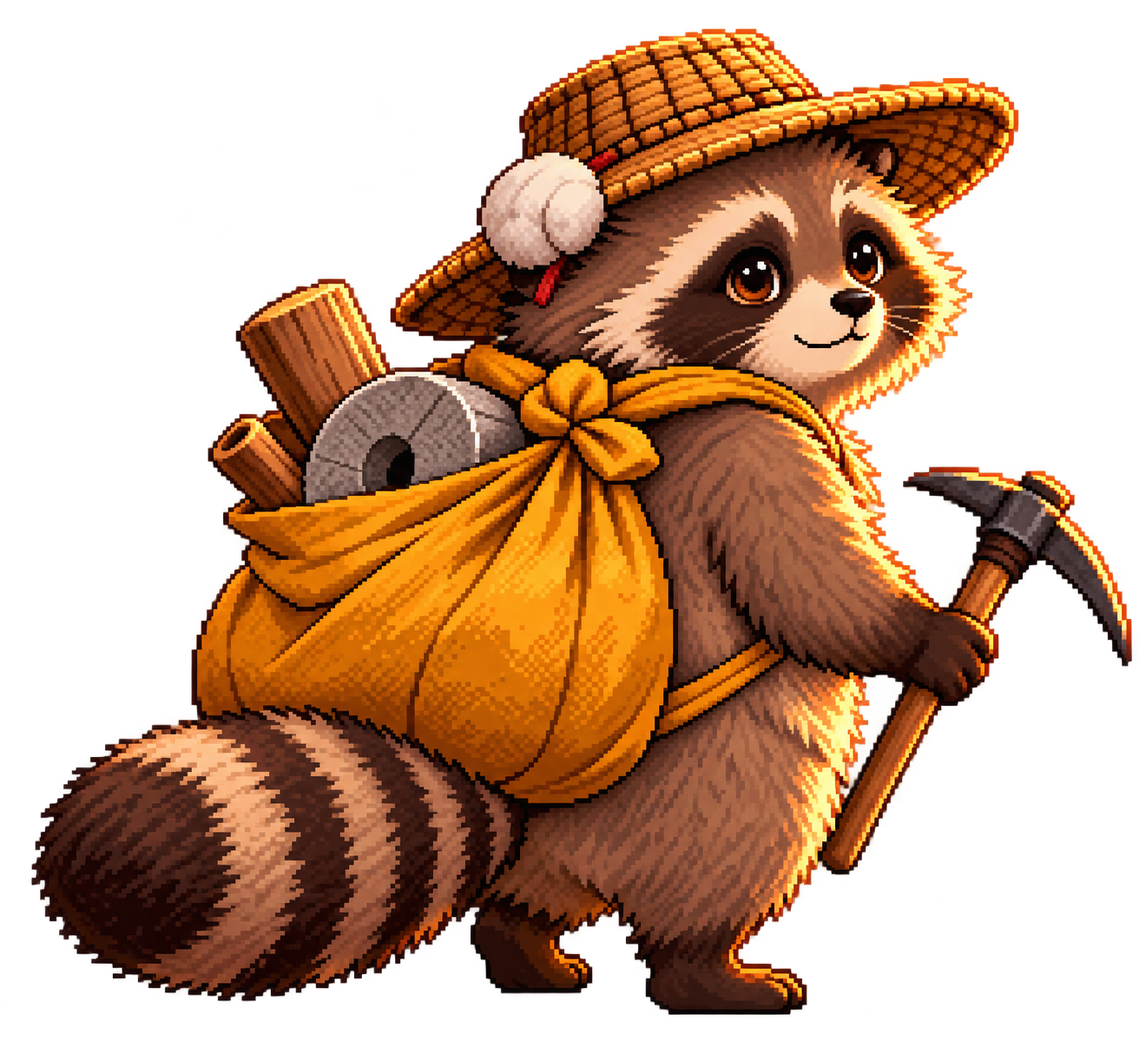
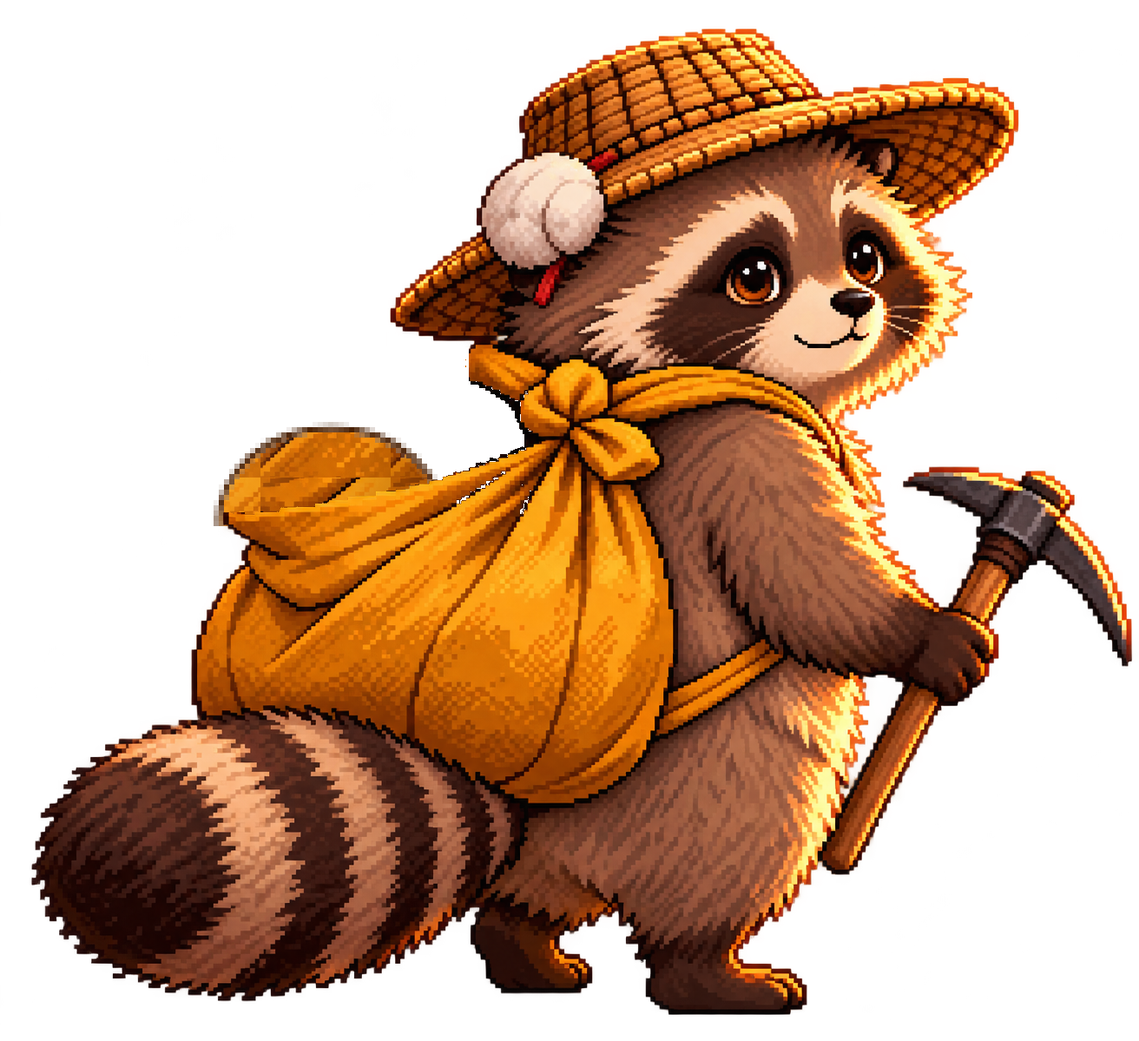
PA-130 화면 손질: 타이틀 짐 덜 보이게·'보통'→'잔일'·가공 빠르게·획득 그림 낮고 짧게·지도 만난 이 쪽지·도장 창 전체 보이기
- D-205 타이틀 그림 보따리에서 통나무·맷돌을 지우고 보자기 윗자락만 살짝 부풀림 (피드백 35)
- D-200 할 일 아래 칸 이름 '보통' → '잔일' (HUD·휴대폰·수첩) (피드백 36)
- D-201 가공 한 동작 1100ms → 750ms (피드백 44)
- D-202 얻은 물건 그림: 머리 위 28px에서 약 10px만 떠 0.5초에 사라짐 (피드백 51)
- D-203 지도 칸에는 만난 이를 점으로만, 이름은 마우스 올림·고른 칸 쪽지로 (피드백 53)
- D-204 도장 찾은 창이 손바닥 자국 전체를 늘 담게 (높이 찍힌 깃대 도장 잘림 고침) (피드백 56)
- ?v=20261101h5

Changed region(s): [[0.1875, 0.2469, 0.4688, 0.5246]]

diff --git a/prototypes/web/index.html b/prototypes/web/index.html
@@ -9,7 +9,7 @@
 <link rel="preconnect" href="https://fonts.googleapis.com">
 <link rel="preconnect" href="https://fonts.gstatic.com" crossorigin>
 <link rel="stylesheet" href="https://fonts.googleapis.com/css2?family=Gowun+Batang:wght@400;700&family=Gowun+Dodum&display=swap">
-<link rel="stylesheet" href="css/style.css?v=20261101g8">
+<link rel="stylesheet" href="css/style.css?v=20261101h5">
 </head>
 <body>
 
@@ -174,65 +174,65 @@
 
 <!-- 새 버전을 올릴 때마다 아래 ?v= 값을 모두 같은 새 값으로 바꾼다 (브라우저가 옛 파일을 쓰지 않게). README 참고 -->
 <!-- 빌드 없이 차례대로 읽는다. 순서: 공통 엔진 → 공통 데이터 → 지역 → 시작(game.js) -->
-<script src="js/engine/core.js?v=20261101g8"></script>
-<script src="js/engine/input.js?v=20261101g8"></script>
-<script src="js/data/music-data.js?v=20261101g8"></script>
-<script src="js/data/new-music.js?v=20261101g8"></script>
-<script src="js/engine/sound.js?v=20261101g8"></script>
-<script src="js/engine/music.js?v=20261101g8"></script>
-<script src="js/engine/vfx.js?v=20261101g8"></script>
-<script src="js/engine/dialog.js?v=20261101g8"></script>
-<script src="js/engine/gather.js?v=20261101g8"></script>
-<script src="js/engine/icons.js?v=20261101g8"></script>
-<script src="js/engine/field.js?v=20261101g8"></script>
-<script src="js/engine/map.js?v=20261101g8"></script>
-<script src="js/engine/hud.js?v=20261101g8"></script>
-<script src="js/engine/forms.js?v=20261101g8"></script>
-<script src="js/engine/roll.js?v=20261101g8"></script>
-<script src="js/engine/bag.js?v=20261101g8"></script>
-<script src="js/engine/craft.js?v=20261101g8"></script>
-<script src="js/engine/trade.js?v=20261101g8"></script>
-<script src="js/engine/book.js?v=20261101g8"></script>
-<script src="js/engine/notebook.js?v=20261101g8"></script>
-<script src="js/engine/battle-ink.js?v=20261101g8"></script>
-<script src="js/engine/battle.js?v=20261101g8"></script>
-<script src="js/engine/battle-attacks.js?v=20261101g8"></script>
+<script src="js/engine/core.js?v=20261101h5"></script>
+<script src="js/engine/input.js?v=20261101h5"></script>
+<script src="js/data/music-data.js?v=20261101h5"></script>
+<script src="js/data/new-music.js?v=20261101h5"></script>
+<script src="js/engine/sound.js?v=20261101h5"></script>
+<script src="js/engine/music.js?v=20261101h5"></script>
+<script src="js/engine/vfx.js?v=20261101h5"></script>
+<script src="js/engine/dialog.js?v=20261101h5"></script>
+<script src="js/engine/gather.js?v=20261101h5"></script>
+<script src="js/engine/icons.js?v=20261101h5"></script>
+<script src="js/engine/field.js?v=20261101h5"></script>
+<script src="js/engine/map.js?v=20261101h5"></script>
+<script src="js/engine/hud.js?v=20261101h5"></script>
+<script src="js/engine/forms.js?v=20261101h5"></script>
+<script src="js/engine/roll.js?v=20261101h5"></script>
+<script src="js/engine/bag.js?v=20261101h5"></script>
+<script src="js/engine/craft.js?v=20261101h5"></script>
+<script src="js/engine/trade.js?v=20261101h5"></script>
+<script src="js/engine/book.js?v=20261101h5"></script>
+<script src="js/engine/notebook.js?v=20261101h5"></script>
+<script src="js/engine/battle-ink.js?v=20261101h5"></script>
+<script src="js/engine/battle.js?v=20261101h5"></script>
+<script src="js/engine/battle-attacks.js?v=20261101h5"></script>
 <!-- 표(design/data/*.csv)에서 만든 데이터. 직접 고치지 말고 tools/build-data.js 로 다시 만든다 -->
-<script src="js/data/tables.js?v=20261101g8"></script>
-<script src="js/data/common.js?v=20261101g8"></script>
+<script src="js/data/tables.js?v=20261101h5"></script>
+<script src="js/data/common.js?v=20261101h5"></script>
 <!-- 지역 1: 단풍골. 지역을 더할 때는 그 지역 폴더의 파일을 이 아래에 같은 모양으로 덧붙인다 -->
-<script src="js/regions/galchamgol/region.js?v=20261101g8"></script>
-<script src="js/regions/galchamgol/art.js?v=20261101g8"></script>
-<script src="js/regions/galchamgol/field.js?v=20261101g8"></script>
-<script src="js/regions/galchamgol/enemies.js?v=20261101g8"></script>
-<script src="js/regions/galchamgol/story.js?v=20261101g8"></script>
-<script src="js/regions/galchamgol/strangers.js?v=20261101g8"></script>
+<script src="js/regions/galchamgol/region.js?v=20261101h5"></script>
+<script src="js/regions/galchamgol/art.js?v=20261101h5"></script>
+<script src="js/regions/galchamgol/field.js?v=20261101h5"></script>
+<script src="js/regions/galchamgol/enemies.js?v=20261101h5"></script>
+<script src="js/regions/galchamgol/story.js?v=20261101h5"></script>
+<script src="js/regions/galchamgol/strangers.js?v=20261101h5"></script>
 <!-- 지역 2: 돌너머 마을 -->
-<script src="js/regions/dolneomeo/region.js?v=20261101g8"></script>
-<script src="js/regions/dolneomeo/art.js?v=20261101g8"></script>
-<script src="js/regions/dolneomeo/field.js?v=20261101g8"></script>
-<script src="js/regions/dolneomeo/enemies.js?v=20261101g8"></script>
-<script src="js/regions/dolneomeo/story.js?v=20261101g8"></script>
-<script src="js/regions/dolneomeo/strangers.js?v=20261101g8"></script>
+<script src="js/regions/dolneomeo/region.js?v=20261101h5"></script>
+<script src="js/regions/dolneomeo/art.js?v=20261101h5"></script>
+<script src="js/regions/dolneomeo/field.js?v=20261101h5"></script>
+<script src="js/regions/dolneomeo/enemies.js?v=20261101h5"></script>
+<script src="js/regions/dolneomeo/story.js?v=20261101h5"></script>
+<script src="js/regions/dolneomeo/strangers.js?v=20261101h5"></script>
 <!-- 지역 3: 큰 장터 -->
-<script src="js/regions/jangteo/region.js?v=20261101g8"></script>
-<script src="js/regions/jangteo/art.js?v=20261101g8"></script>
-<script src="js/regions/jangteo/field.js?v=20261101g8"></script>
-<script src="js/regions/jangteo/enemies.js?v=20261101g8"></script>
-<script src="js/regions/jangteo/story.js?v=20261101g8"></script>
-<script src="js/regions/jangteo/strangers.js?v=20261101g8"></script>
+<script src="js/regions/jangteo/region.js?v=20261101h5"></script>
+<script src="js/regions/jangteo/art.js?v=20261101h5"></script>
+<script src="js/regions/jangteo/field.js?v=20261101h5"></script>
+<script src="js/regions/jangteo/enemies.js?v=20261101h5"></script>
+<script src="js/regions/jangteo/story.js?v=20261101h5"></script>
+<script src="js/regions/jangteo/strangers.js?v=20261101h5"></script>
 <!-- 지역 4: 북쪽 영산 (마지막) -->
-<script src="js/regions/yeongsan/region.js?v=20261101g8"></script>
-<script src="js/regions/yeongsan/art.js?v=20261101g8"></script>
-<script src="js/regions/yeongsan/field.js?v=20261101g8"></script>
-<script src="js/regions/yeongsan/enemies.js?v=20261101g8"></script>
-<script src="js/regions/yeongsan/story.js?v=20261101g8"></script>
-<script src="js/regions/yeongsan/strangers.js?v=20261101g8"></script>
-<script src="js/engine/save.js?v=20261101g8"></script>
+<script src="js/regions/yeongsan/region.js?v=20261101h5"></script>
+<script src="js/regions/yeongsan/art.js?v=20261101h5"></script>
+<script src="js/regions/yeongsan/field.js?v=20261101h5"></script>
+<script src="js/regions/yeongsan/enemies.js?v=20261101h5"></script>
+<script src="js/regions/yeongsan/story.js?v=20261101h5"></script>
+<script src="js/regions/yeongsan/strangers.js?v=20261101h5"></script>
+<script src="js/engine/save.js?v=20261101h5"></script>
 <!-- 첫 화면 (packoon-layer-studio 타이틀 장면) -->
-<script src="js/title/scene-data.js?v=20261101g8"></script>
-<script src="js/title/title-scene.js?v=20261101g8"></script>
-<script src="js/title/title-screen.js?v=20261101g8"></script>
-<script src="js/engine/game.js?v=20261101g8"></script>
+<script src="js/title/scene-data.js?v=20261101h5"></script>
+<script src="js/title/title-scene.js?v=20261101h5"></script>
+<script src="js/title/title-screen.js?v=20261101h5"></script>
+<script src="js/engine/game.js?v=20261101h5"></script>
 </body>
 </html>

diff --git a/prototypes/web/js/title/scene-data.js b/prototypes/web/js/title/scene-data.js
@@ -1,6 +1,7 @@
 'use strict';
 /* 타이틀 장면 데이터. packoon-layer-studio 의 scene-defaults.json · layer-manifest.json 을 그대로 옮긴 것이다 (같은 폴더의 assets/title/*.json).
    더블클릭(file://)으로도 열리게 JSON 을 실행 중에 읽지 않고 여기에 담는다. 값을 바꿀 때는 JSON 을 고치고 이 파일도 같은 값으로 맞춘다 */
-const TITLE_ASSETS={"sky":"assets/title/sky.png","clouds":"assets/title/clouds.png","hills":"assets/title/hills.png","sacred-tree":"assets/title/sacred-tree.png","village":"assets/title/village.png","magpie":"assets/title/magpie.png","ground":"assets/title/ground.png","fog":"assets/title/fog.png","character":"assets/title/character.png","foreground":"assets/title/foreground.png","leaf":"assets/title/leaf.png","logo":"assets/title/logo.png"};
+// 결정 D-205: character.png 의 보따리에서 삐져나온 통나무·맷돌을 지우고 보자기 윗자락만 살짝 부풀렸다 (사용자 피드백 35)
+const TITLE_ASSETS={"sky":"assets/title/sky.png","clouds":"assets/title/clouds.png","hills":"assets/title/hills.png","sacred-tree":"assets/title/sacred-tree.png","village":"assets/title/village.png","magpie":"assets/title/magpie.png","ground":"assets/title/ground.png","fog":"assets/title/fog.png","character":"assets/title/character.png?d205","foreground":"assets/title/foreground.png","leaf":"assets/title/leaf.png","logo":"assets/title/logo.png"};
 const TITLE_META={"sky":{"width":1672,"height":941,"bounds":[0,0,1672,941],"alpha":[255,255],"source":"Image gen, independently regenerated"},"clouds":{"width":2172,"height":724,"bounds":[41,197,2089,325],"alpha":[0,255],"source":"Image gen, independently regenerated"},"hills":{"width":1672,"height":941,"bounds":[0,307,1672,634],"alpha":[0,255],"source":"Image gen, independently regenerated"},"sacred-tree":{"width":1152,"height":1366,"bounds":[2,0,1150,1366],"alpha":[0,255],"source":"Image gen, independently regenerated"},"village":{"width":1254,"height":1254,"bounds":[9,89,1231,1112],"alpha":[0,255],"source":"Image gen, independently regenerated"},"ground":{"width":1672,"height":941,"bounds":[0,572,1672,369],"alpha":[0,255],"source":"Image gen, independently regenerated"},"fog":{"width":2172,"height":724,"bounds":[55,290,2067,234],"alpha":[0,255],"source":"Image gen, independently regenerated"},"character":{"width":1312,"height":1199,"bounds":[36,33,1268,1136],"alpha":[0,255],"source":"Image gen, independently regenerated"},"foreground":{"width":1672,"height":941,"bounds":[0,0,1672,941],"alpha":[0,255],"source":"Image gen, independently regenerated"},"leaf":{"width":1295,"height":1214,"bounds":[289,175,861,901],"alpha":[0,255],"source":"Image gen, independently regenerated"},"logo":{"width":2135,"height":736,"bounds":[78,158,1964,433],"alpha":[0,255],"source":"Image gen, independently regenerated"},"magpie":{"width":1536,"height":1024,"bounds":[71,46,1425,894],"alpha":[0,254],"source":"Image gen, independently regenerated"}};
 const TITLE_DEFAULTS={"version":1,"presetId":"packoon-approved-2026-10-29-02","config":{"parallax":15,"floatAmp":12,"floatPeriod":6,"cloudSpeed":8,"fogSpeed":43,"leafCount":28,"leafSpeed":1,"wind":18},"selected":"logo","isolate":false,"playing":false,"layers":[{"id":"sky","blur":0,"depth":0.04,"opacity":1,"visible":true},{"id":"clouds","blur":0,"depth":0.12,"opacity":0.7,"visible":true},{"id":"hills","blur":1,"depth":0.22,"opacity":1,"visible":true},{"id":"sacred-tree","blur":1,"depth":0.42,"opacity":1,"visible":true},{"id":"village","blur":1.5,"depth":0.65,"opacity":1,"visible":true},{"id":"magpie","blur":0,"depth":0.4,"opacity":1,"visible":false},{"id":"ground","blur":0,"depth":0.2,"opacity":1,"visible":true},{"id":"fog","blur":2,"depth":0.7,"opacity":0.24,"visible":true},{"id":"character","blur":0,"depth":0.25,"opacity":1,"visible":true},{"id":"foreground","blur":1.5,"depth":1.8,"opacity":1,"visible":true},{"id":"leaf","blur":0,"depth":1.4,"opacity":0.95,"visible":true},{"id":"logo","blur":0,"depth":0.3,"opacity":1,"visible":true}]};

diff --git a/prototypes/web/js/engine/map.js b/prototypes/web/js/engine/map.js
@@ -134,12 +134,17 @@ function renderMap(){
       b.style.left=p.x+'%';b.style.top=p.y+'%';b.disabled=!known;
       if(!known){b.title='아직 가 보지 않은 곳';b.setAttribute('aria-label','아직 가 보지 않은 곳');}
       else{const v=seen[id],line=mapSeenText(v);
-        if(v.who.length)b.appendChild(el('span','map-seen-who',v.who.join('·')));
+        // 결정 D-203: 만난 이 이름은 칸에 바로 쓰지 않고 작은 점으로만 둔다. 마우스를 올리거나(터치는 눌러 고르면) 이름 쪽지가 뜬다 (사용자 피드백 53)
+        if(v.who.length){const row=el('span','map-seen-who');row.setAttribute('aria-hidden','true');
+          for(let i=0;i<Math.min(v.who.length,MAP_WHO_DOTS);i++)row.appendChild(el('i','map-who-dot'));
+          if(v.who.length>MAP_WHO_DOTS)row.appendChild(el('b',null,'+'+(v.who.length-MAP_WHO_DOTS)));
+          b.appendChild(row);b.dataset.who=v.who.join(' · ');}
         if(v.items.length){const row=el('span','map-seen-items');
           for(const it of v.items.slice(0,3)){const ic=icon(it.id);if(it.spent)ic.classList.add('spent');ic.setAttribute('aria-hidden','true');row.appendChild(ic);}
           if(v.items.length>3)row.appendChild(el('b',null,'+'+(v.items.length-3)));
           b.appendChild(row);}
-        if(line){b.title=TABLES.ZONES[r.id][id]+' · '+line;b.setAttribute('aria-label',b.title);}}
+        if(line)b.setAttribute('aria-label',TABLES.ZONES[r.id][id]+' · '+line);
+        b.onpointerenter=e=>{if(e.pointerType==='mouse')showMapTip(b);};b.onpointerleave=e=>{if(e.pointerType==='mouse')showMapTip(mapSelectedButton());};}
       if(current)b.setAttribute('aria-current','location');
       const selected=mapSelection?.region===r.id&&mapSelection?.zone===id;b.setAttribute('aria-pressed',String(selected));b.tabIndex=selected?0:-1;
       b.onclick=()=>selectMapPlace(b);
@@ -147,13 +152,31 @@ function renderMap(){
     }
     section.append(heading,chart);body.appendChild(section);
   }
-  updateMapSelection();
+  updateMapSelection();body.onscroll=()=>showMapTip(mapTipButton);
+}
+/* 만난 이 쪽지: 지도 칸 위에 뜨는 작은 이름표. 지도 몸통이 굴러도 잘리지 않게 지도 창에 따로 둔다 */
+const MAP_WHO_DOTS=5;
+function mapSelectedButton(){return $('mapBody')?.querySelector('.map-place[aria-pressed="true"]')||null;}
+let mapTipButton=null;
+function showMapTip(button){
+  if(button&&!button.isConnected)button=mapSelectedButton();   // 지도를 다시 그린 뒤의 옛 칸
+  mapTipButton=button;let tip=$('mapTip');
+  if(!tip){tip=el('div','map-tip');tip.id='mapTip';tip.setAttribute('aria-hidden','true');$('map').appendChild(tip);}
+  const who=button&&!button.disabled&&open('map')?button.dataset.who:'';
+  tip.hidden=!who;if(!who)return;
+  tip.textContent='만난 이 · '+who;tip.style.left='0px';   // 너비를 잴 때 오른쪽 끝에 눌려 접히지 않게
+  const box=$('map').getBoundingClientRect(),r=button.getBoundingClientRect(),above=r.top-box.top>48;
+  const view=$('mapBody').getBoundingClientRect();if(r.bottom<view.top||r.top>view.bottom){tip.hidden=true;return;}   // 굴러서 안 보이는 칸
+  tip.classList.toggle('below',!above);
+  const half=tip.offsetWidth/2,center=clamp(r.left+r.width/2-box.left,half+6,box.width-half-6);   // 지도 창 밖으로 나가지 않게
+  tip.style.left=Math.round(center)+'px';
+  tip.style.top=Math.round((above?r.top:r.bottom)-box.top)+'px';
 }
 function selectMapPlace(button,focus=true){
   if(button.disabled)return;
   mapSelection={region:button.dataset.region,zone:button.dataset.zone};
   for(const b of $('mapBody').querySelectorAll('button')){const selected=b===button;b.setAttribute('aria-pressed',String(selected));b.tabIndex=selected?0:-1;}
-  updateMapSelection();if(focus)button.focus();
+  updateMapSelection();if(focus)button.focus();showMapTip(button);
 }
 function updateMapSelection(){
   const s=mapSelection;$('mapDestination').textContent=s?TABLES.ZONES[s.region]?.[s.zone]||'어딘가':'';

diff --git a/prototypes/web/js/engine/hud.js b/prototypes/web/js/engine/hud.js
@@ -1,13 +1,14 @@
 'use strict';
-/* HUD: 체력, 손에 든 연장, 지금 할 일 (REG.goal() 이 중요한 일, 사연 심부름(SIDE_QUESTS)이 보통 일을 준다) */
-/* 결정 D-149: 할 일은 '중요'(이 지역 본 줄거리)와 '보통'(인물 사연에서 맡은 심부름)으로 나눠 함께 보인다.
+/* HUD: 체력, 손에 든 연장, 지금 할 일 (REG.goal() 이 중요한 일, 사연 심부름(SIDE_QUESTS)이 잔일을 준다) */
+/* 결정 D-149: 할 일은 '중요'(이 지역 본 줄거리)와 '잔일'(인물 사연에서 맡은 심부름)으로 나눠 함께 보인다.
+   결정 D-200: 아래 칸 이름은 '보통' 대신 소일거리라는 뜻의 '잔일' (사용자 피드백 36).
    문구는 짧은 명사형(~하기)으로 핵심만 쓰고 장소는 붙이지 않는다(사용자 피드백 2026-11-01). 수첩 '해야 할 일' 탭(D-150)도 같은 목록을 쓴다.
-   보통 일 하나: {id, region, title(끝낸 뒤 이름), start(F), done(F), text(F)}. 시작 표시가 서고 끝 표시가 없는 동안만 진행 중이다. */
+   잔일 하나: {id, region, title(끝낸 뒤 이름), start(F), done(F), text(F)}. 시작 표시가 서고 끝 표시가 없는 동안만 진행 중이다. */
 const SIDE_QUESTS=[];
 function defineSideQuests(region,list){list.forEach(q=>SIDE_QUESTS.push(Object.assign({region},q)));}
 const sideOn=q=>!!(G&&G.started&&q.start(G.f)&&!q.done(G.f));
 const sideDone=q=>!!(G&&q.start(G.f)&&q.done(G.f));
-/* 진행 중인 보통 일. 지금 지역 것을 앞에 둔다 */
+/* 진행 중인 잔일. 지금 지역 것을 앞에 둔다 */
 function activeSideQuests(){
   const list=SIDE_QUESTS.filter(sideOn);
   return [...list.filter(q=>q.region===G.region),...list.filter(q=>q.region!==G.region)];
@@ -21,11 +22,11 @@ function refreshGoal(){
   const e=$('goal');e.hidden=!g;e.innerHTML='';
   const row=(cls,label,text)=>{const r=el('div','goal-row '+cls);r.appendChild(el('b',null,label));r.appendChild(document.createTextNode(text));e.appendChild(r);};
   if(g)row('main','중요',g);
-  subs.slice(0,HUD_SIDE_MAX).forEach(t=>row('sub','보통',t));
-  if(subs.length>HUD_SIDE_MAX)e.appendChild(el('div','goal-more','보통 일 '+(subs.length-HUD_SIDE_MAX)+'개 더 · 수첩 해야 할 일'));
+  subs.slice(0,HUD_SIDE_MAX).forEach(t=>row('sub','잔일',t));
+  if(subs.length>HUD_SIDE_MAX)e.appendChild(el('div','goal-more','잔일 '+(subs.length-HUD_SIDE_MAX)+'개 더 · 수첩 해야 할 일'));
   const m=$('goalM');m.querySelector('b').textContent=g?'중요':'지금 할 일';m.querySelector('span').textContent=g||REG.cover.ready;
   let ms=$('goalMSub');if(!ms){ms=el('small','goal-m-sub');ms.id='goalMSub';m.appendChild(ms);}
-  ms.hidden=!subs.length;ms.textContent=subs.length?'보통 · '+subs[0]+(subs.length>1?' 외 '+(subs.length-1):''):'';
+  ms.hidden=!subs.length;ms.textContent=subs.length?'잔일 · '+subs[0]+(subs.length>1?' 외 '+(subs.length-1):''):'';
 }
 let lastTool='';
 /* 결정 D-85: 키 안내의 잎사귀 변신은 가진 변신만 보인다. 변신을 하나도 못 배웠으면 줄을 숨긴다. */

diff --git a/prototypes/web/js/engine/book.js b/prototypes/web/js/engine/book.js
@@ -24,19 +24,19 @@ function renderMomNote(body){
   const transcript=el('details','mom-transcript');transcript.appendChild(el('summary',null,'쪽지 글 다시 읽기'));
   spoken.forEach(text=>transcript.appendChild(el('p',null,text)));body.appendChild(transcript);
 }
-/* 결정 D-150: 수첩 '해야 할 일' 장. 중요(지금 지역의 본 줄거리 한 줄)와 보통(맡은 심부름)을 나누고,
+/* 결정 D-150: 수첩 '해야 할 일' 장. 중요(지금 지역의 본 줄거리 한 줄)와 잔일(맡은 심부름, D-200)을 나누고,
    끝낸 일은 접어 둔 '끝낸 일' 묶음에 남긴다(지나온 지역의 본 줄거리와 마친 심부름). 할 일 글은 HUD와 같다(hud.js). */
 function renderTodo(body){
   const item=(box,cls,text,sub)=>{const d=el('div','todo-item '+cls);d.appendChild(document.createTextNode(text));if(sub)d.appendChild(el('small',null,sub));box.appendChild(d);};
   const head=(cls,text)=>body.appendChild(el('div','todo-head '+cls,text));
   head('main','중요');
   const g=mainGoalText();item(body,'main',g||REG.cover.ready,REG.name);
-  head('sub','보통');
+  head('sub','잔일');
   const subs=activeSideQuests();
   if(!subs.length)body.appendChild(el('p','empty-note','맡은 부탁이 아직 없다. 길에서 만난 이들의 이야기를 들어 보자.'));
   subs.forEach(q=>item(body,'sub',q.text(G.f),REGIONS[q.region]?.name));
   const done=[...regionList().filter(r=>r.id!==G.region&&regionCompleted(r.id)).map(r=>({cls:'main',text:r.cover.end.head,sub:r.name+' · 중요'})),
-    ...SIDE_QUESTS.filter(sideDone).map(q=>({cls:'sub',text:q.title,sub:(REGIONS[q.region]?.name||'')+' · 보통'}))];
+    ...SIDE_QUESTS.filter(sideDone).map(q=>({cls:'sub',text:q.title,sub:(REGIONS[q.region]?.name||'')+' · 잔일'}))];
   if(!done.length)return;
   const box=el('details','todo-done');box.appendChild(el('summary',null,'끝낸 일 '+done.length));
   done.forEach(d=>item(box,d.cls,d.text,d.sub));body.appendChild(box);

diff --git a/prototypes/web/js/engine/field.js b/prototypes/web/js/engine/field.js
@@ -840,13 +840,21 @@ function drawStampBase(kind,x,y){
   else if(kind==='bark'){R(x-5,y-11,10,11,'#6e4a2c');R(x-4,y-11,1,11,'#59391f');R(x+3,y-10,1,9,'#59391f');R(x-1,y-10,2,2,'#4f331d');R(x-5,y-12,10,1,'#8a6440');}
 }
 function pawStamp_glint(x,y,seed){if(!Vfx.reducedMotion&&Math.floor((G.anim+seed)/18)%7===0)R(Math.round(x)+3,Math.round(y)-8,1,1,'#fff3c4');}
+/* 결정 D-204: 도장을 찾았을 때 뜨는 작은 창은 손바닥 자국(묻은 것 포함, 위 -11~아래 +3)이 늘 다 들어가게 잡는다 (사용자 피드백 56).
+   예전에는 땅에서 22px 위까지만 담아, 깃대·기둥처럼 높이 찍힌 도장(face 18)은 손가락 끝이 잘렸다.
+   받침까지 한 창(28px)에 들어가면 받침과 함께, 아니면 손바닥을 가운데에 둔다. */
+function peekStamp(s){
+  const gy=s.y??fieldGround(),py=gy-(s.face??STAMP_FACE[stampBase(s)]),top=py-11,bottom=Math.max(py+3,gy),ch=28;
+  const mid=bottom-top<=ch-4?(top+bottom)/2:py-4;
+  peekAt(s.x,Math.round(mid+ch/2),{w:40,h:ch,below:0});
+}
 function findStamp(s){
   if(CLASSIC||stampFound(s.id))return false;
   // 문구는 notebook.csv의 알게되는키로 연결한다. 위치와 발견 방식만 지역이 정한다.
   const found=G.f.stampsFound||(G.f.stampsFound={});found[expansionKey(s.id)]=true;
   G.f.stampCount=stampCount();G.f.stampsByRegion=G.f.stampsByRegion||{};G.f.stampsByRegion[REG.id]=stampCount(REG.id);
   learn(s.note,true);Vfx.burst(s.x,s.y??fieldGround());Sound.playSfx('stamp_found');
-  peekAt(s.x,s.y??fieldGround(),{w:40,h:28,below:6});
+  peekStamp(s);
   toast('아빠의 손바닥 도장이다. 수첩에 그날 이야기가 보인다.');return true;
 }
 function drawZoneObjects(){

diff --git a/prototypes/web/css/style.css b/prototypes/web/css/style.css
@@ -614,7 +614,13 @@ body.ending-scene .hud,body.ending-scene #pad,body.ending-scene #toast,body.endi
 .map-place-name{display:block}
 .map-chart.has-seen{height:170px}
 .map-chart.has-seen .map-place{height:72px}
-.map-seen-who{display:block;font-size:10px;line-height:1.25;color:#5d4e39;white-space:nowrap;overflow:hidden;text-overflow:ellipsis}
+/* 결정 D-203: 만난 이는 점으로만, 이름은 마우스를 올리거나 골랐을 때 쪽지로 */
+.map-seen-who{display:flex;justify-content:center;align-items:center;gap:3px;height:9px;margin-top:2px}
+.map-who-dot{display:block;width:5px;height:5px;background:#7a4a2a;box-shadow:1px 1px 0 #c9b68e}
+.map-seen-who b{font-size:9px;font-weight:700;color:#5d4e39;line-height:1}
+.map-tip{position:absolute;z-index:3;transform:translate(-50%,calc(-100% - 6px));max-width:min(340px,80%);padding:4px 8px;background:var(--meok);color:#f5ead2;font-size:12px;line-height:1.4;border-radius:2px;box-shadow:0 2px 0 #a68d66;pointer-events:none;word-break:keep-all;text-align:center}
+.map-tip.below{transform:translate(-50%,6px)}
+.map-tip[hidden]{display:none}
 .map-seen-items{display:flex;justify-content:center;align-items:center;gap:1px;height:16px;margin-top:1px}
 .map-seen-items canvas{display:block;width:16px;height:16px;image-rendering:pixelated;pointer-events:none}
 .map-seen-items canvas.spent{opacity:.35}

diff --git a/prototypes/web/js/engine/notebook.js b/prototypes/web/js/engine/notebook.js
@@ -154,7 +154,7 @@ function collectFreshDrawings(){
 
 /* 탭: 앞의 셋은 아빠와 같이 쓰는 쪽, 나머지는 아이가 이어 적은 장. 탭 선택은 저장하지 않는다 */
 // 결정 D-30: 수첩에서 일기·까치 답장을 빼고, 아빠 단서·엄마의 쪽지는 보따리 '중요' 탭으로 (design/data/decisions.csv)
-// 결정 D-150: 아이가 적는 장 맨 앞에 '해야 할 일'(중요·보통으로 나눈 할 일, 끝낸 일)을 두고, '익힌 솜씨' 장은 없앤다.
+// 결정 D-150: 아이가 적는 장 맨 앞에 '해야 할 일'(중요·잔일로 나눈 할 일, 끝낸 일)을 두고, '익힌 솜씨' 장은 없앤다.
 //   손버릇 줄은 그 가보의 물건 쪽에 아이 줄로 남는다(myTexts). 탭 이름이 같은 보따리 '중요' 탭과 헷갈리지 않게 '해야 할 일'로 부른다.
 const NOTE_TABS=[['animal','동물',1],['item','물건',1],...(CLASSIC?[]:[['stamp','도장',1]]),
   ['todo','해야 할 일'],['nicknames','불리는 이름'],['recipes','숨은 가공법'],['ledger','물품 장부']];

diff --git a/prototypes/web/js/engine/vfx.js b/prototypes/web/js/engine/vfx.js
@@ -180,8 +180,9 @@ const Vfx=(()=>{
     if(popWait>0)popWait--;
     for(let i=prints.length-1;i>=0;i--)if(--prints[i].life<=0)prints.splice(i,1);
     if(pending.length&&!popWait){
-      if(emit('item',G.px,G.py-36,0,motion.matches?0:-.9,48,'#fff0bc','effect',false,pending[0])){
-        pending.shift();popWait=52;
+      // 결정 D-202: 얻은 물건은 낮게(약 10px) 떠서 0.5초 만에 사라진다 (사용자 피드백 51. 전에는 36px 위에서 20px 더 떠 0.8초)
+      if(emit('item',G.px,G.py-28,0,motion.matches?0:-.55,30,'#fff0bc','effect',false,pending[0])){
+        pending.shift();popWait=34;
       }
     }
     for(let i=particles.length-1;i>=0;i--){

diff --git a/prototypes/web/js/engine/craft.js b/prototypes/web/js/engine/craft.js
@@ -41,6 +41,7 @@ function finishCraftHands(redraw=true){
     (h.discovered?' 찾은 가공법을 수첩에 이어 적었다.':'');
   if(redraw&&open('bag'))renderBag();
 }
+// 결정 D-201: 가공 한 동작을 조금 더 빠르게 (tuning craft_motion_ms 1100→750)
 const craftMotionMs=()=>matchMedia('(prefers-reduced-motion: reduce)').matches?300:TABLES.TUNING.craft_motion_ms;
 // 한 번 누르면 동작 한 번이 시작된다. 동작 중에는 더 누르지 않는다.
 function craftHandInput(direction){

diff --git a/prototypes/web/js/data/tables.js b/prototypes/web/js/data/tables.js
@@ -2687,7 +2687,7 @@ const TABLES={
   "peek_ms": 1400,
   "peek_fade_ms": 180,
   "hint_range": 150,
-  "craft_motion_ms": 1100,
+  "craft_motion_ms": 750,
   "drop_arc_height": 24,
   "drop_flight_frames": 28,
   "drop_min_spacing": 18,
